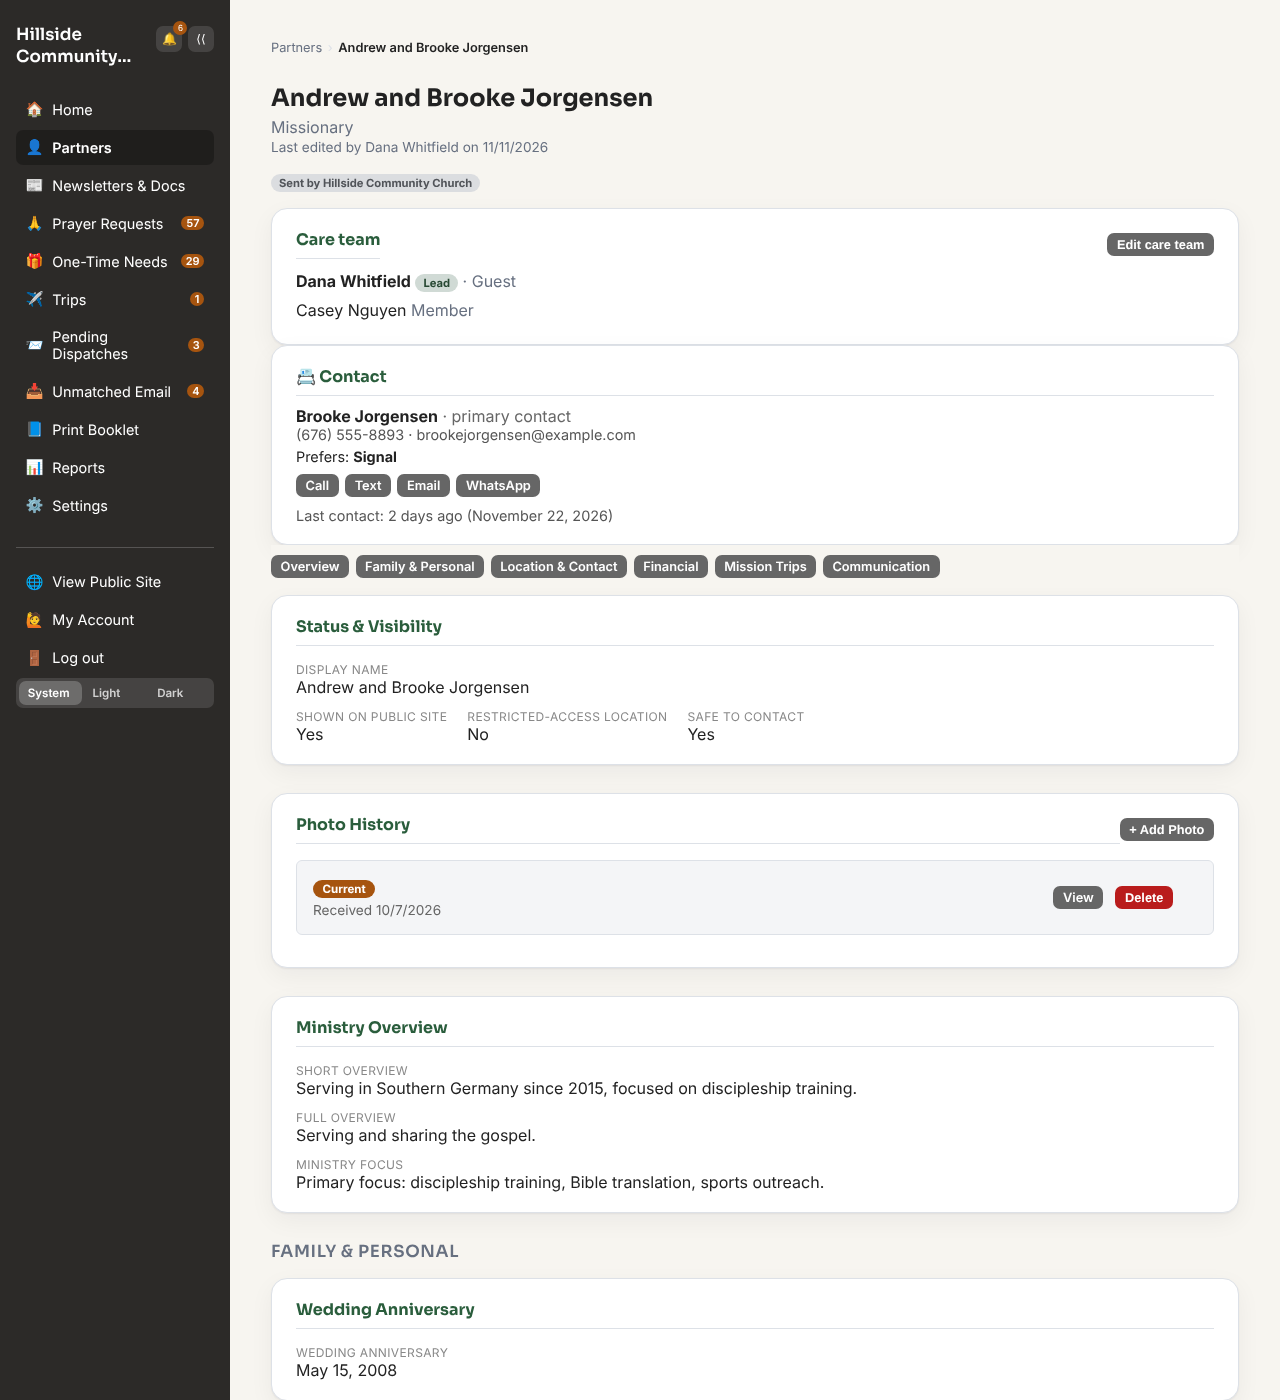
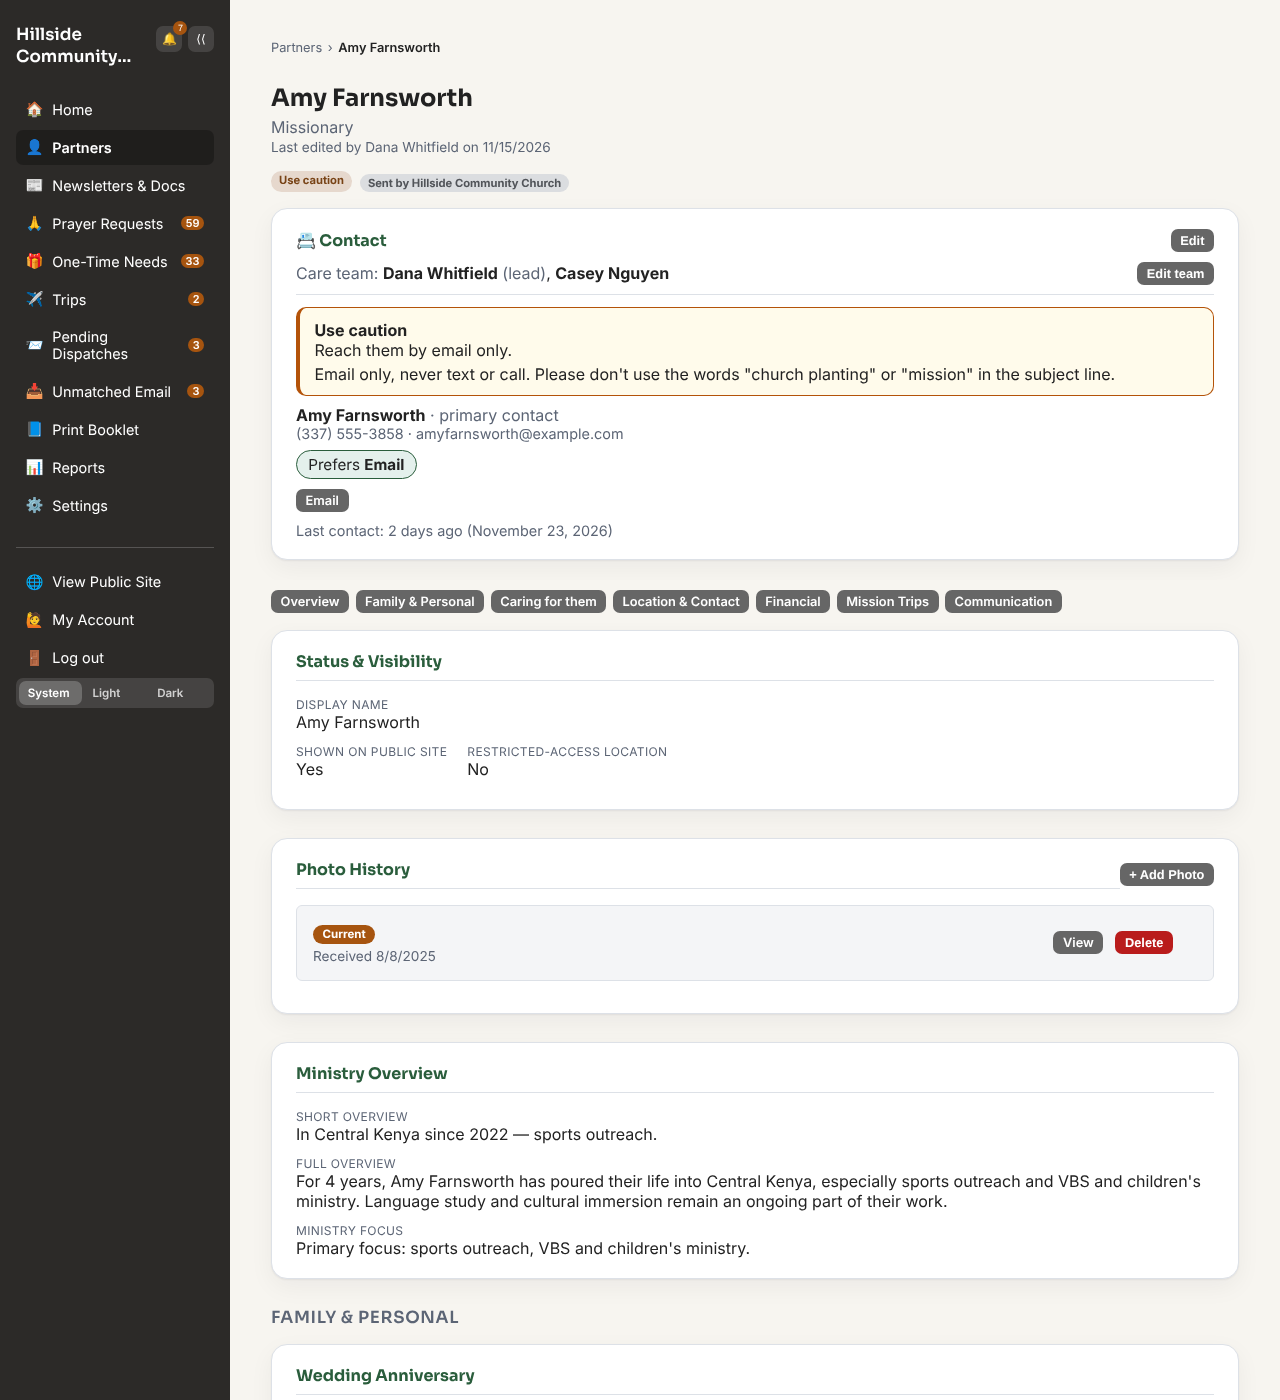
Partner page: contact card with one-line care team, Caring for them section
Claude-Session: https://claude.ai/code/session_01MmRKDYXLtPvHu3ZZXFwPQ9

diff --git a/frontend/src/components/admin/CareTeamPanel.jsx b/frontend/src/components/admin/CareTeamPanel.jsx
@@ -18,7 +18,7 @@ export function memberName(m) {
   return [m.firstName, m.lastName].filter(Boolean).join(" ") || m.email || "Someone";
 }
 
-export default function CareTeamPanel({ partnerId, canEdit, canInviteGuest = false }) {
+export default function CareTeamPanel({ partnerId, canEdit, canInviteGuest = false, compact = false }) {
   const [team, setTeam] = useState(null);
   const [failed, setFailed] = useState(false);
   const [editing, setEditing] = useState(false);
@@ -47,6 +47,62 @@ export default function CareTeamPanel({ partnerId, canEdit, canInviteGuest = fal
   useEffect(() => {
     reload();
   }, [reload]);
+
+  if (compact) {
+    // One line on the contact card: who is on the team, with Edit or Assign beside it.
+    const people = team
+      ? [
+          team.lead && { id: team.lead.userId, name: memberName(team.lead), lead: true },
+          ...team.members.map((m) => ({ id: m.userId, name: memberName(m), lead: false })),
+        ].filter(Boolean)
+      : [];
+    return (
+      <div id="section-care-team" style={{ scrollMarginTop: "1rem" }}>
+        <div
+          style={{ display: "flex", justifyContent: "space-between", alignItems: "center", gap: "0.5rem" }}
+        >
+          <div>
+            <span style={{ color: "var(--muted)" }}>Care team: </span>
+            {failed && <span style={{ color: "var(--danger)" }}>couldn't load</span>}
+            {team && people.length === 0 && (
+              <span style={{ color: "var(--muted)" }}>nobody assigned yet</span>
+            )}
+            {people.map((m, i) => (
+              <span key={m.id}>
+                {i > 0 && ", "}
+                <strong>{m.name}</strong>
+                {m.lead && <span style={{ color: "var(--muted)" }}> (lead)</span>}
+              </span>
+            ))}
+            {team && people.length > 0 && !team.lead && (
+              <span style={{ color: "var(--warn)" }}> · no lead yet</span>
+            )}
+          </div>
+          {canEdit && team && (
+            <button type="button" className="btn secondary small" onClick={() => setEditing(true)}>
+              {people.length ? "Edit team" : "+ Assign team"}
+            </button>
+          )}
+        </div>
+        {team && people.length === 0 && canEdit && enabledFeatures?.keyDates && (
+          <div style={{ fontSize: "0.85rem", color: "var(--muted)", marginTop: "0.2rem" }}>
+            {defaultLead
+              ? `Key-date reminders go to the default lead, ${defaultLead.name}, until a team is set.`
+              : "Key-date reminders have nobody to go to until a team (or a default lead) is set."}
+          </div>
+        )}
+        {editing && (
+          <EditCareTeamModal
+            partnerId={partnerId}
+            team={team}
+            canInviteGuest={canInviteGuest}
+            onClose={() => setEditing(false)}
+            onSaved={(next) => setTeam(next)}
+          />
+        )}
+      </div>
+    );
+  }
 
   return (
     <div className="admin-section" id="section-care-team" style={{ scrollMarginTop: "1rem" }}>

diff --git a/frontend/src/pages/AdminPartnerDetail.jsx b/frontend/src/pages/AdminPartnerDetail.jsx
@@ -746,11 +746,12 @@ export default function AdminPartnerDetail() {
         );
       })()}
 
-      {enabledFeatures.careTeam && (
-        <CareTeamPanel partnerId={p.id} canEdit={canWrite} canInviteGuest={isAdmin} />
-      )}
-
       <ContactCard
+        careTeam={
+          enabledFeatures.careTeam && (
+            <CareTeamPanel compact partnerId={p.id} canEdit={canWrite} canInviteGuest={isAdmin} />
+          )
+        }
         partner={p}
         adults={collections.adults}
         entries={contactEntries}
@@ -760,14 +761,12 @@ export default function AdminPartnerDetail() {
         onChanged={reload}
       />
 
-      {enabledFeatures.supportPreferences && enabledFeatures.careTeam && (
-        <SupportPreferencesCard partnerId={p.id} isAdmin={isAdmin} />
-      )}
-
       <div className="partner-jump-rail">
         {[
           { label: "Overview", href: "#section-overview" },
           !isOrg && { label: "Family & Personal", href: "#section-family" },
+          enabledFeatures.supportPreferences &&
+            enabledFeatures.careTeam && { label: "Caring for them", href: "#section-caring" },
           { label: "Location & Contact", href: "#section-location" },
           ((!isGuest && enabledFeatures.monthlySupport) ||
             (enabledFeatures.oneTimeNeeds && (!isGuest || isOnCareTeamFor(id)))) && {
@@ -1049,6 +1048,10 @@ export default function AdminPartnerDetail() {
             />
           )}
         </div>
+
+        {enabledFeatures.supportPreferences && enabledFeatures.careTeam && (
+          <SupportPreferencesCard partnerId={p.id} isAdmin={isAdmin} inGroup />
+        )}
 
         <div className="admin-section-group" id="section-location">
           <h2 className="admin-group-heading">Location &amp; Contact</h2>

diff --git a/frontend/src/components/admin/CareTeamPanel.test.jsx b/frontend/src/components/admin/CareTeamPanel.test.jsx
@@ -46,6 +46,31 @@ beforeEach(() => {
   keyDatesOn = false;
 });
 
+describe("CareTeamPanel, compact (the line on the contact card)", () => {
+  it("names the team on one line, with the lead marked, and offers Edit team", async () => {
+    fetchCareTeam.mockResolvedValue({ lead: { ...ann, isLead: true }, members: [{ ...bob, isLead: false }] });
+    renderPanel({ compact: true });
+    expect(await screen.findByText("Ann Lead")).toBeInTheDocument();
+    expect(screen.getByText("(lead)")).toBeInTheDocument();
+    expect(screen.getByText("Bob Member")).toBeInTheDocument();
+    expect(screen.getByRole("button", { name: "Edit team" })).toBeInTheDocument();
+  });
+
+  it("says nobody is assigned and offers to assign a team", async () => {
+    fetchCareTeam.mockResolvedValue({ lead: null, members: [] });
+    renderPanel({ compact: true });
+    expect(await screen.findByText(/nobody assigned yet/)).toBeInTheDocument();
+    expect(screen.getByRole("button", { name: "+ Assign team" })).toBeInTheDocument();
+  });
+
+  it("has no button for someone who can't edit", async () => {
+    fetchCareTeam.mockResolvedValue({ lead: { ...ann, isLead: true }, members: [] });
+    renderPanel({ compact: true, canEdit: false });
+    expect(await screen.findByText("Ann Lead")).toBeInTheDocument();
+    expect(screen.queryByRole("button")).not.toBeInTheDocument();
+  });
+});
+
 describe("CareTeamPanel", () => {
   it("shows the lead and the members, marking a guest", async () => {
     fetchCareTeam.mockResolvedValue({ lead: { ...ann, isLead: true }, members: [{ ...bob, isLead: false }] });

diff --git a/frontend/e2e/contact-card.spec.js b/frontend/e2e/contact-card.spec.js
@@ -12,7 +12,7 @@ test.describe("Contact card", () => {
     await expect(card).toBeVisible();
 
     // Use caution, email only.
-    await card.getByRole("button", { name: "Edit" }).click();
+    await card.getByRole("button", { name: "Edit", exact: true }).click();
     let dialog = page.getByRole("dialog");
     await dialog.getByLabel("How they like to be reached").selectOption("email");
     await dialog.getByRole("radio", { name: /Use caution/ }).check();
@@ -27,7 +27,7 @@ test.describe("Contact card", () => {
     await expect(card.getByRole("link", { name: "Call" })).toHaveCount(0);
 
     // Don't contact directly: their details give way to who to go through.
-    await card.getByRole("button", { name: "Edit" }).click();
+    await card.getByRole("button", { name: "Edit", exact: true }).click();
     dialog = page.getByRole("dialog");
     await dialog.getByRole("radio", { name: /Don't contact directly/ }).check();
     await dialog.getByLabel("Go through (name)").fill("Mission office");
@@ -43,7 +43,7 @@ test.describe("Contact card", () => {
     await expect(card.getByText(/Prefers/)).toHaveCount(0);
 
     // Back to normal, so the seeded partner is left as it was.
-    await card.getByRole("button", { name: "Edit" }).click();
+    await card.getByRole("button", { name: "Edit", exact: true }).click();
     dialog = page.getByRole("dialog");
     await dialog.getByRole("radio", { name: /^Normal/ }).check();
     await dialog.getByRole("button", { name: "Save" }).click();

diff --git a/frontend/src/components/admin/SupportPreferencesCard.jsx b/frontend/src/components/admin/SupportPreferencesCard.jsx
@@ -38,7 +38,7 @@ const rowLabel = {
   fontSize: "0.95rem",
 };
 
-export default function SupportPreferencesCard({ partnerId, isAdmin = false }) {
+export default function SupportPreferencesCard({ partnerId, isAdmin = false, inGroup = false }) {
   const [data, setData] = useState(null);
   const [hidden, setHidden] = useState(false);
   const [failed, setFailed] = useState(false);
@@ -72,7 +72,7 @@ export default function SupportPreferencesCard({ partnerId, isAdmin = false }) {
   const groups = groupOptions(answered);
   const hasMenu = (data?.options || []).some((o) => o.active);
 
-  return (
+  const card = (
     <div className="admin-section" id="section-support-preferences" style={{ scrollMarginTop: "1rem" }}>
       <div style={{ display: "flex", justifyContent: "space-between", alignItems: "center", gap: "0.5rem" }}>
         <h3 style={{ margin: 0 }}>Support preferences</h3>
@@ -137,6 +137,15 @@ export default function SupportPreferencesCard({ partnerId, isAdmin = false }) {
           onSaved={reload}
         />
       )}
+    </div>
+  );
+  // On the partner page it sits under its own "Caring for them" heading, which only shows when
+  // the card does (it renders nothing for someone who can't reach it).
+  if (!inGroup) return card;
+  return (
+    <div className="admin-section-group" id="section-caring">
+      <h2 className="admin-group-heading">Caring for them</h2>
+      {card}
     </div>
   );
 }

diff --git a/frontend/src/index.css b/frontend/src/index.css
@@ -1303,7 +1303,8 @@ a {
   display: flex;
   flex-direction: column;
   gap: 1rem;
-  scroll-margin-top: 1rem;
+  /* Clear of the sticky jump bar when a jump link scrolls here. */
+  scroll-margin-top: 4.5rem;
 }
 /* Cards and groups placed straight in a page (not inside .admin-form, which spaces its own
    children) get the same breathing room between them. Without it they stack edge to edge. */
@@ -2465,4 +2466,11 @@ button.report-summary-item[aria-pressed="true"] {
 /* Read-only label/value pairs stacked in a card (Field.jsx) get a little room between them. */
 .field-view:not(:last-child) {
   margin-bottom: 0.65rem;
+}
+
+/* The care team's one-liner on the contact card, set off from the contact details below it. */
+.contact-care-team {
+  margin-top: 0.6rem;
+  padding-bottom: 0.6rem;
+  border-bottom: 1px solid var(--border);
 }

diff --git a/frontend/src/components/admin/ContactCard.jsx b/frontend/src/components/admin/ContactCard.jsx
@@ -46,6 +46,7 @@ export default function ContactCard({
   showLog = true,
   canEdit = false,
   canEditCare = false,
+  careTeam = null,
   onChanged,
 }) {
   const [editing, setEditing] = useState(false);
@@ -87,6 +88,8 @@ export default function ContactCard({
           </button>
         )}
       </div>
+
+      {careTeam && <div className="contact-care-team">{careTeam}</div>}
 
       {level === "caution" && (
         <div role="note" className="contact-notice contact-notice-caution">

diff --git a/USER_GUIDE.md b/USER_GUIDE.md
@@ -894,7 +894,9 @@ Everything for keeping in touch with partners, in one place: who looks after eac
 
 With **Care teams** turned on in [Enabled Features](ADMIN_GUIDE.md#feature-toggles), every partner can have a **care team**: one **Lead** and any number of **Members**, the people at the church who keep in touch with that partner. An admin or editor sets it from the partner's page (**Care team**, near the top) or from the **Team** tab of one of that partner's trips, and can also add a **Guest** to a partner's team while creating their account (choose the Guest role in **Add User**, then the **Care team** step; other roles don't get that step). Everyone on a team needs a login; someone who isn't on your staff can be a **Guest**. **Reports → Care team coverage** lists the partners with no team or no lead.
 
-![A partner's page with the Care team panel (a Lead and Members) beside the Contact card](docs/assets/screenshots/care-team-and-contact.png)
+The team shows as one line on the partner's **Contact** card ("Care team: Pat (lead), Casey") with **Edit team** beside it, or **+ Assign team** when nobody is set.
+
+![A partner's Contact card with the care team on one line](docs/assets/screenshots/care-team-and-contact.png)
 
 ![The Care team dialog, choosing a Lead and ticking Members](docs/assets/screenshots/assign-care-team.png)
 
@@ -984,7 +986,7 @@ The app never contacts a partner on its own — a person always does. If you're 
 
 ### Support preferences
 
-With **Support preferences** turned on in [Enabled Features](ADMIN_GUIDE.md#feature-toggles) (it needs [Care teams](#care-teams)), each partner's page gets a **Support preferences** card: the ways your church and their care team can support them, and which of them this partner has asked for.
+With **Support preferences** turned on in [Enabled Features](ADMIN_GUIDE.md#feature-toggles) (it needs [Care teams](#care-teams)), each partner's page gets a **Support preferences** card, under its own **Caring for them** heading (there is a button for it in the jump bar): the ways your church and their care team can support them, and which of them this partner has asked for.
 
 - **The menu is your church's.** An admin edits it under **Settings → Support Preferences**: options are put in groups (rename a group any time), and each is something you **offer** (tick it if wanted), a **pick one** or **pick any** question (with an optional "something else" box), or a **free-text** question. From an empty menu, **Add an example set** gives a starting list (housing, transportation, speaking about the partner, prayer, care packages, how to send gifts and so on) to edit or delete. **Retire** an option to stop offering it while keeping the answers already given, or **Delete** it to remove it and those answers.
 - **Record a partner's choices** with **+ Record preferences** (or **Edit preferences**) on their page, after a conversation: tick what they want, pick their answers, add a note. One set per partner, so a couple or family shares it. Admins, editors and a guest on that partner's care team can record it; a viewer can read it. A trip leader never sees it.

diff --git a/CHANGELOG.md b/CHANGELOG.md
@@ -22,6 +22,7 @@ see [UPGRADING.md](UPGRADING.md) for the actual update steps.
 
 ### Added
 
+- **The top of a partner's page is shorter.** The care team is now one line on the Contact card ("Care team: Pat (lead), Casey", with Edit team or + Assign team), and Support preferences moved down into a new **Caring for them** section after Family & Personal, with its own button in the jump bar.
 - **Visitors can choose Light or Dark on the public site** with a small switch in the header; it follows their device unless they pick one.
 - **More records carry a created date ([#383](https://github.com/neckermann/missions-partner-tracker/issues/383)).** A partner's addresses and sending party, a trip's budget lines and flight segments, and application questions now record when they were added (trips and applications already did).
 - **"Forgot your password?" on the sign-in page.** When the site can send email, anyone can ask for a link to choose a new password. The link works once and lasts an hour, a reset signs the account out everywhere else, and the reply is the same whether or not the address has an account (at most one email a minute per account). It reuses the setup-link machinery, so no database change. Not offered while email is off, on a demo, or with passwordless sign-in on.
@@ -30,6 +31,7 @@ see [UPGRADING.md](UPGRADING.md) for the actual update steps.
 
 ### Fixed
 
+- **A row that opens a record is clickable on its own, and looks it.** The duplicate Open (Partners), View (Trips) and View details (trip team) buttons are gone; clickable rows show a pointer, a link-coloured first cell, and a focus ring, and open with Enter or Space.
 - **Dark mode is readable on every page ([#418](https://github.com/neckermann/missions-partner-tracker/issues/418)).** Many pages used hardcoded greys and whites that ignored the theme, so headings, help text, table cells and tabs were nearly invisible in dark mode. They now use the theme colours, and a new check (`frontend/e2e/contrast.spec.js`) fails the build if text on a public or admin page drops below a readable contrast in either theme.
 - **Text no longer turns unreadable after you visit Print Booklet.** The booklet's stylesheet set a dark text colour on the whole page and stayed loaded when you moved on, so the next page was dark-on-dark until a refresh. It is now scoped to the booklet itself.
 - **Action buttons in tables no longer wrap onto two lines** and come out different sizes; Delete, Retire and the like stay the same height as their neighbours.
